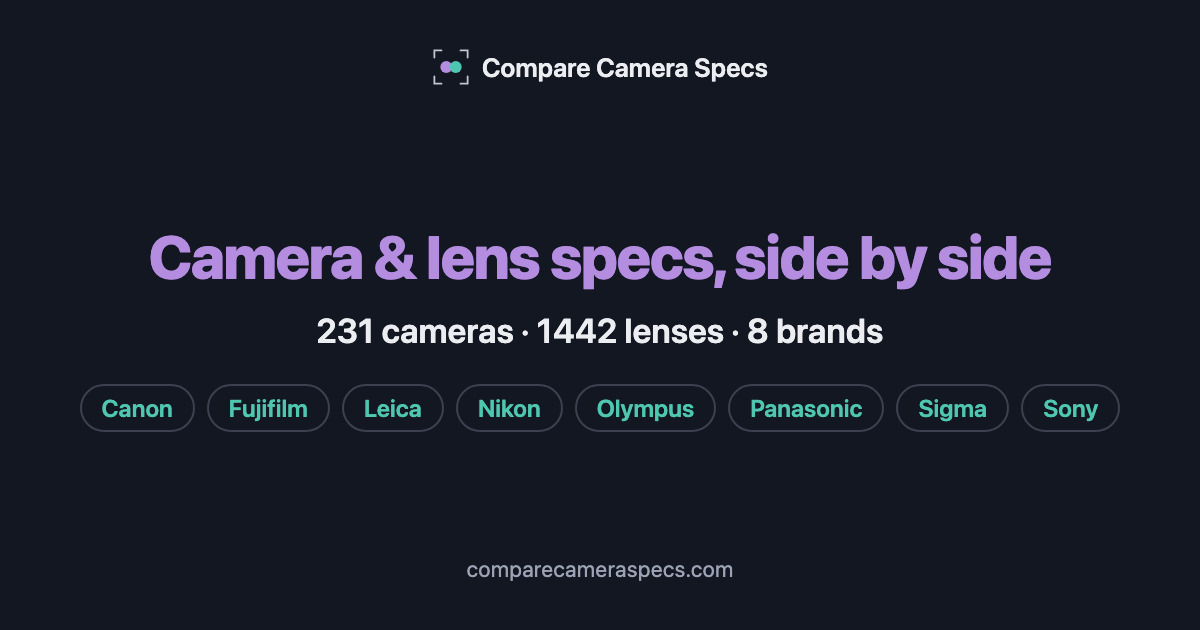
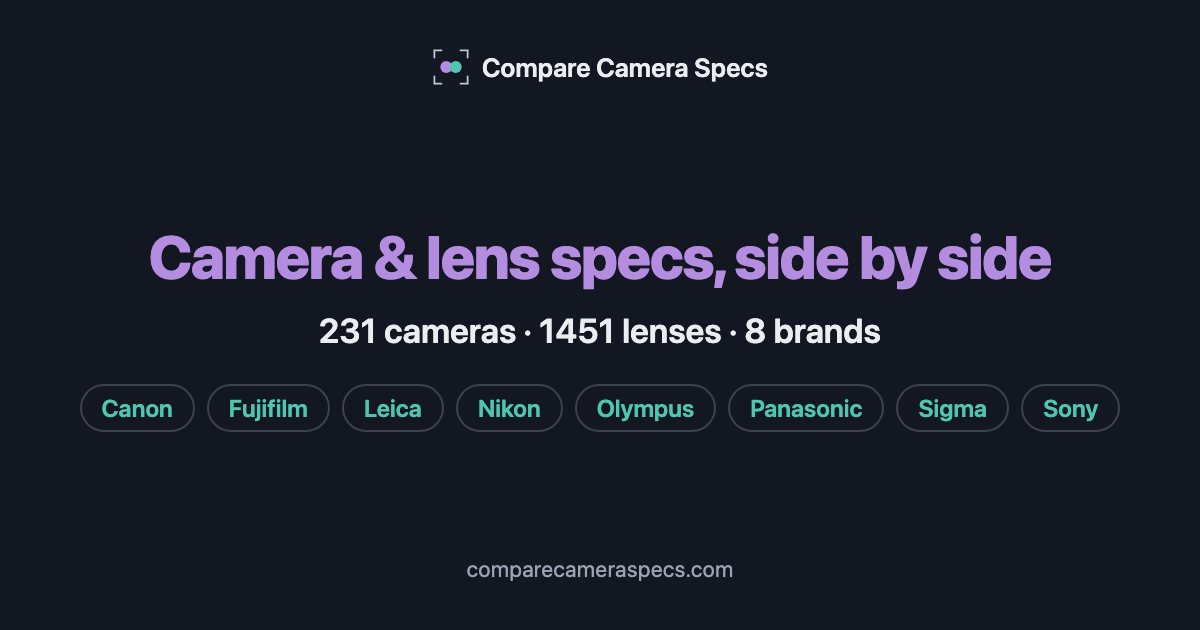
Leica: add 9 Zeiss ZM lenses
zeiss.com ZM technical data + datasheets; diameters from B&H (Distagon 15
from DxOMark); USD = B&H. New Zeiss (M-Mount) group.

Claude-Session: https://claude.ai/code/session_01FYKXhtYCHKNL3CJLW6oPDG

Changed region(s): [[0.2467, 0.4825, 0.74, 0.5429]]

diff --git a/leica/data.js b/leica/data.js
@@ -4434,6 +4434,160 @@ const LENSES = {
     priceIncomplete:true,
     productUrl:'https://www.cosina.co.jp/voigtlander/en/vm-mount/ultron-vintage-line-35mm-f2-aspherical/',
   },
+
+  /* ── Zeiss (M-Mount, ZM) — Panasonic/Leica missing-lens pass 2026-10-22 ── */
+  'zeiss-distagon-15mm-f28-zm': {
+    name:'Zeiss Distagon T* 2.8/15 ZM', manufacturer:'Zeiss', line:'ZM', type:'Prime',
+    mount:'m', focalLength:15, focalLengthMin:null, focalLengthMax:null, focalLengthEquiv:'15mm',
+    maxAperture:2.8, minAperture:22, weight:550, length:86, diameter:78,
+    filterThread:72, minFocusDist:30, maxMagnification:0.056,
+    elements:11, groups:9, blades:10, afType:'Manual',
+    weatherSealed:false, ois:false, oisStops:null, year:2005, discontinued:false,
+    imageUrl:'https://www.zeiss.com/content/dam/pno/images/photography/products/lenses-for-rangefinder-cameras/zm-lenses/models/zeiss-distagon-2815-zm.jpg',
+    imageSource: { url:'https://www.zeiss.com/photonics-and-optics/us/photography/products/lenses-for-rangefinder-cameras/zm-lenses.html', tier:'T1', title:'ZEISS ZM Lenses - zeiss.com', note:'the model image for this lens (file zeiss-distagon-2815-zm), lens alone', date:'2026-10-22' },
+    asin:null,
+    prices:{USD:4750,AUD:null,EUR:null,GBP:null,JPY:null,CAD:null,SGD:null},
+    specSources: [{ url:'https://www.zeiss.com/photonics-and-optics/us/photography/products/lenses-for-rangefinder-cameras/zm-lenses.html', tier:'T1', title:'ZEISS ZM Lenses - official technical data (zeiss.com US)', note:'Zeiss Distagon T* 2.8/15 ZM: f/2.8-f/22, 11/9, 0.30m, 1:18, M72 x 0.75, length 86mm without caps, 550g. Year: DxOMark lists the ZM version as released January 2005', date:'2026-10-22' }, { url:'https://www.zeiss.com/content/dam/pno/downloads/photo-lenses/datasheets/zm-lenses/datasheet-zeiss-zm-distagon-2815-en.pdf', tier:'T1', title:'Zeiss Distagon T* 2.8/15 ZM - Zeiss datasheet (PDF)', note:'datasheet: 11/9, 0.3m, 1:18, M72, 86mm, 500g (the web table\'s 550g is used; DxOMark also lists 550g)', date:'2026-10-22' }, { url:'https://www.bhphotovideo.com/c/product/361526-REG/x.html/specs', tier:'T3', title:'B&H - Zeiss Distagon T* 2.8/15 ZM specs', note:'f/2.8-22, 11/9, 10 blades, 30cm, 72mm filter, 500g; no dimensions row (Zeiss publishes no diameter or blade count for the ZM line)', date:'2026-10-22' }, { url:'https://www.dxomark.com/Lenses/Zeiss/Zeiss-Carl-Zeiss-Distagon-T-15mm-F28-ZM-Leica', tier:'T4', title:'DxOMark - Carl Zeiss Distagon T* 15mm F2.8 ZM Leica', note:'max diameter 78mm (the only source found for the diameter - neither Zeiss nor B&H publishes it), 550g, released January 2005', date:'2026-10-22' }],
+    priceSource: { url:'https://www.bhphotovideo.com/c/product/361526-REG/x.html', tier:'T3', title:'B&H Photo - Zeiss Distagon T* 2.8/15 ZM (black)', note:'B&H price $4,750, no strikethrough; Zeiss\'s US web shop no longer lists ZM lenses; non-USD not examined', date:'2026-10-22' },
+    priceIncomplete:true,
+    productUrl:'https://www.zeiss.com/photonics-and-optics/us/photography/products/lenses-for-rangefinder-cameras/zm-lenses.html',
+  },
+
+  'zeiss-biogon-21mm-f28-zm': {
+    name:'Zeiss Biogon T* 2.8/21 ZM', manufacturer:'Zeiss', line:'ZM', type:'Prime',
+    mount:'m', focalLength:21, focalLengthMin:null, focalLengthMax:null, focalLengthEquiv:'21mm',
+    maxAperture:2.8, minAperture:22, weight:280, length:64, diameter:53,
+    filterThread:46, minFocusDist:50, maxMagnification:0.048,
+    elements:9, groups:7, blades:10, afType:'Manual',
+    weatherSealed:false, ois:false, oisStops:null, year:2005, discontinued:false,
+    imageUrl:'https://www.zeiss.com/content/dam/pno/images/photography/products/lenses-for-rangefinder-cameras/zm-lenses/models/zeiss-biogon-2821-zm.jpg',
+    imageSource: { url:'https://www.zeiss.com/photonics-and-optics/us/photography/products/lenses-for-rangefinder-cameras/zm-lenses.html', tier:'T1', title:'ZEISS ZM Lenses - zeiss.com', note:'the model image for this lens (file zeiss-biogon-2821-zm), lens alone', date:'2026-10-22' },
+    asin:null,
+    prices:{USD:1599,AUD:null,EUR:null,GBP:null,JPY:null,CAD:null,SGD:null},
+    specSources: [{ url:'https://www.zeiss.com/photonics-and-optics/us/photography/products/lenses-for-rangefinder-cameras/zm-lenses.html', tier:'T1', title:'ZEISS ZM Lenses - official technical data (zeiss.com US)', note:'Zeiss Biogon T* 2.8/21 ZM: f/2.8-f/22, 9/7, 0.50m, 1:21, M46 x 0.75, 64mm without caps, 280g. Year: estimated: the ZM line launched 2004-05 with the Zeiss Ikon rangefinder', date:'2026-10-22' }, { url:'https://www.zeiss.com/content/dam/pno/downloads/photo-lenses/datasheets/zm-lenses/datasheet-zeiss-zm-biogon-2821-en.pdf', tier:'T1', title:'Zeiss Biogon T* 2.8/21 ZM - Zeiss datasheet (PDF)', note:'datasheet: 9/7, 0.5m, 1:21, M46, 64mm, 300g (B&H also 300g; the current web table\'s 280g is used)', date:'2026-10-22' }, { url:'https://www.bhphotovideo.com/c/product/361537-REG/x.html/specs', tier:'T3', title:'B&H - Zeiss Biogon T* 2.8/21 ZM specs', note:'f/2.8-22, 9/7, 10 blades, 50cm, 46mm filter, 53 x 64mm, 300g; diameter from here (Zeiss publishes no diameter or blade count for the ZM line)', date:'2026-10-22' }],
+    priceSource: { url:'https://www.bhphotovideo.com/c/product/361537-REG/x.html', tier:'T3', title:'B&H Photo - Zeiss Biogon T* 2.8/21 ZM (black)', note:'B&H price $1,599, no strikethrough; Zeiss\'s US web shop no longer lists ZM lenses; non-USD not examined', date:'2026-10-22' },
+    priceIncomplete:true,
+    productUrl:'https://www.zeiss.com/photonics-and-optics/us/photography/products/lenses-for-rangefinder-cameras/zm-lenses.html',
+  },
+
+  'zeiss-biogon-25mm-f28-zm': {
+    name:'Zeiss Biogon T* 2.8/25 ZM', manufacturer:'Zeiss', line:'ZM', type:'Prime',
+    mount:'m', focalLength:25, focalLengthMin:null, focalLengthMax:null, focalLengthEquiv:'25mm',
+    maxAperture:2.8, minAperture:22, weight:260, length:60, diameter:51.3,
+    filterThread:46, minFocusDist:50, maxMagnification:0.056,
+    elements:9, groups:7, blades:10, afType:'Manual',
+    weatherSealed:false, ois:false, oisStops:null, year:2004, discontinued:false,
+    imageUrl:'https://www.zeiss.com/content/dam/pno/images/photography/products/lenses-for-rangefinder-cameras/zm-lenses/models/zeiss-biogon-2825-zm.jpg',
+    imageSource: { url:'https://www.zeiss.com/photonics-and-optics/us/photography/products/lenses-for-rangefinder-cameras/zm-lenses.html', tier:'T1', title:'ZEISS ZM Lenses - zeiss.com', note:'the model image for this lens (file zeiss-biogon-2825-zm), lens alone', date:'2026-10-22' },
+    asin:null,
+    prices:{USD:1361,AUD:null,EUR:null,GBP:null,JPY:null,CAD:null,SGD:null},
+    specSources: [{ url:'https://www.zeiss.com/photonics-and-optics/us/photography/products/lenses-for-rangefinder-cameras/zm-lenses.html', tier:'T1', title:'ZEISS ZM Lenses - official technical data (zeiss.com US)', note:'Zeiss Biogon T* 2.8/25 ZM: f/2.8-f/22, 9/7, 0.50m, M46 x 0.75, 60mm without caps, 260g (its image-ratio/coverage rows copy the 21mm\'s). Year: estimated: introduced 2004 as part of the original ZM line-up (dealer listings)', date:'2026-10-22' }, { url:'https://www.zeiss.com/content/dam/pno/downloads/photo-lenses/datasheets/zm-lenses/datasheet-zeiss-zm-biogon-2825-en.pdf', tier:'T1', title:'Zeiss Biogon T* 2.8/25 ZM - Zeiss datasheet (PDF)', note:'datasheet: 9/7, 0.5m, 1:18, M46, 60mm, 260g', date:'2026-10-22' }, { url:'https://www.bhphotovideo.com/c/product/361544-REG/x.html/specs', tier:'T3', title:'B&H - Zeiss Biogon T* 2.8/25 ZM specs', note:'f/2.8-22, 9/7, 10 blades, 50cm, 46mm filter, 51.3 x 60mm, 260g; diameter from here (Zeiss publishes no diameter or blade count for the ZM line)', date:'2026-10-22' }],
+    priceSource: { url:'https://www.bhphotovideo.com/c/product/361544-REG/x.html', tier:'T3', title:'B&H Photo - Zeiss Biogon T* 2.8/25 ZM (black)', note:'B&H price $1,361, no strikethrough; Zeiss\'s US web shop no longer lists ZM lenses; non-USD not examined', date:'2026-10-22' },
+    priceIncomplete:true,
+    productUrl:'https://www.zeiss.com/photonics-and-optics/us/photography/products/lenses-for-rangefinder-cameras/zm-lenses.html',
+  },
+
+  'zeiss-biogon-28mm-f28-zm': {
+    name:'Zeiss Biogon T* 2.8/28 ZM', manufacturer:'Zeiss', line:'ZM', type:'Prime',
+    mount:'m', focalLength:28, focalLengthMin:null, focalLengthMax:null, focalLengthEquiv:'28mm',
+    maxAperture:2.8, minAperture:22, weight:230, length:51, diameter:51.3,
+    filterThread:46, minFocusDist:50, maxMagnification:0.063,
+    elements:8, groups:6, blades:10, afType:'Manual',
+    weatherSealed:false, ois:false, oisStops:null, year:2004, discontinued:false,
+    imageUrl:'https://www.zeiss.com/content/dam/pno/images/photography/products/lenses-for-rangefinder-cameras/zm-lenses/models/zeiss-biogon-2828-zm.jpg',
+    imageSource: { url:'https://www.zeiss.com/photonics-and-optics/us/photography/products/lenses-for-rangefinder-cameras/zm-lenses.html', tier:'T1', title:'ZEISS ZM Lenses - zeiss.com', note:'the model image for this lens (file zeiss-biogon-2828-zm), lens alone', date:'2026-10-22' },
+    asin:null,
+    prices:{USD:1361,AUD:null,EUR:null,GBP:null,JPY:null,CAD:null,SGD:null},
+    specSources: [{ url:'https://www.zeiss.com/photonics-and-optics/us/photography/products/lenses-for-rangefinder-cameras/zm-lenses.html', tier:'T1', title:'ZEISS ZM Lenses - official technical data (zeiss.com US)', note:'Zeiss Biogon T* 2.8/28 ZM: f/2.8-f/22, 8/6, 0.50m, 1:16, M46 x 0.75, 51mm without caps, 230g. Year: estimated: part of the 2004 ZM launch line-up', date:'2026-10-22' }, { url:'https://www.zeiss.com/content/dam/pno/downloads/photo-lenses/datasheets/zm-lenses/datasheet-zeiss-zm-biogon-2828-en.pdf', tier:'T1', title:'Zeiss Biogon T* 2.8/28 ZM - Zeiss datasheet (PDF)', note:'datasheet: 8/6, 0.5m, 1:16, M46, 51mm, 220g (B&H also 220g; the current web table\'s 230g is used)', date:'2026-10-22' }, { url:'https://www.bhphotovideo.com/c/product/361545-REG/x.html/specs', tier:'T3', title:'B&H - Zeiss Biogon T* 2.8/28 ZM specs', note:'f/2.8-22, 8/6, 10 blades, 50cm, 46mm filter, 51.3 x 51mm, 220g; diameter from here (Zeiss publishes no diameter or blade count for the ZM line)', date:'2026-10-22' }],
+    priceSource: { url:'https://www.bhphotovideo.com/c/product/361545-REG/x.html', tier:'T3', title:'B&H Photo - Zeiss Biogon T* 2.8/28 ZM (black)', note:'B&H price $1,361, no strikethrough; Zeiss\'s US web shop no longer lists ZM lenses; non-USD not examined', date:'2026-10-22' },
+    priceIncomplete:true,
+    productUrl:'https://www.zeiss.com/photonics-and-optics/us/photography/products/lenses-for-rangefinder-cameras/zm-lenses.html',
+  },
+
+  'zeiss-distagon-35mm-f14-zm': {
+    name:'Zeiss Distagon T* 1.4/35 ZM', manufacturer:'Zeiss', line:'ZM', type:'Prime',
+    mount:'m', focalLength:35, focalLengthMin:null, focalLengthMax:null, focalLengthEquiv:'35mm',
+    maxAperture:1.4, minAperture:16, weight:381, length:65, diameter:63.2,
+    filterThread:49, minFocusDist:70, maxMagnification:0.059,
+    elements:10, groups:7, blades:10, afType:'Manual',
+    weatherSealed:false, ois:false, oisStops:null, year:2014, discontinued:false,
+    imageUrl:'https://www.zeiss.com/content/dam/pno/images/photography/products/lenses-for-rangefinder-cameras/zm-lenses/models/zeiss-distagon-1435-zm.jpg',
+    imageSource: { url:'https://www.zeiss.com/photonics-and-optics/us/photography/products/lenses-for-rangefinder-cameras/zm-lenses.html', tier:'T1', title:'ZEISS ZM Lenses - zeiss.com', note:'the model image for this lens (file zeiss-distagon-1435-zm), lens alone', date:'2026-10-22' },
+    asin:null,
+    prices:{USD:2390,AUD:null,EUR:null,GBP:null,JPY:null,CAD:null,SGD:null},
+    specSources: [{ url:'https://www.zeiss.com/photonics-and-optics/us/photography/products/lenses-for-rangefinder-cameras/zm-lenses.html', tier:'T1', title:'ZEISS ZM Lenses - official technical data (zeiss.com US)', note:'Zeiss Distagon T* 1.4/35 ZM: f/1.4-f/16, 10/7, 0.70m, 1:16.9, M49 x 0.75, 65mm without caps, 381g. Year: announced at Photokina 2014', date:'2026-10-22' }, { url:'https://www.zeiss.com/content/dam/pno/downloads/photo-lenses/datasheets/zm-lenses/datasheet-zeiss-zm-distagon-1435-en.pdf', tier:'T1', title:'Zeiss Distagon T* 1.4/35 ZM - Zeiss datasheet (PDF)', note:'datasheet: max diameter 63.2mm, 65.2mm without caps (87.3 with), 381g', date:'2026-10-22' }, { url:'https://www.bhphotovideo.com/c/product/1081652-REG/x.html/specs', tier:'T3', title:'B&H - Zeiss Distagon T* 1.4/35 ZM specs', note:'f/1.4-16, 10/7, 10 blades, 70cm, 49mm filter, 63.2 x 65.2mm, 381g (Zeiss publishes no diameter or blade count for the ZM line)', date:'2026-10-22' }],
+    priceSource: { url:'https://www.bhphotovideo.com/c/product/1081652-REG/x.html', tier:'T3', title:'B&H Photo - Zeiss Distagon T* 1.4/35 ZM (black)', note:'B&H price $2,390, no strikethrough; Zeiss\'s US web shop no longer lists ZM lenses; non-USD not examined', date:'2026-10-22' },
+    priceIncomplete:true,
+    productUrl:'https://www.zeiss.com/photonics-and-optics/us/photography/products/lenses-for-rangefinder-cameras/zm-lenses.html',
+  },
+
+  'zeiss-biogon-35mm-f2-zm': {
+    name:'Zeiss Biogon T* 2/35 ZM', manufacturer:'Zeiss', line:'ZM', type:'Prime',
+    mount:'m', focalLength:35, focalLengthMin:null, focalLengthMax:null, focalLengthEquiv:'35mm',
+    maxAperture:2, minAperture:22, weight:240, length:56, diameter:51.8,
+    filterThread:43, minFocusDist:70, maxMagnification:0.056,
+    elements:9, groups:6, blades:10, afType:'Manual',
+    weatherSealed:false, ois:false, oisStops:null, year:2004, discontinued:false,
+    imageUrl:'https://www.zeiss.com/content/dam/pno/images/photography/products/lenses-for-rangefinder-cameras/zm-lenses/models/zeiss-biogon-235-zm.jpg',
+    imageSource: { url:'https://www.zeiss.com/photonics-and-optics/us/photography/products/lenses-for-rangefinder-cameras/zm-lenses.html', tier:'T1', title:'ZEISS ZM Lenses - zeiss.com', note:'the model image for this lens (file zeiss-biogon-235-zm), lens alone', date:'2026-10-22' },
+    asin:null,
+    prices:{USD:1241,AUD:null,EUR:null,GBP:null,JPY:null,CAD:null,SGD:null},
+    specSources: [{ url:'https://www.zeiss.com/photonics-and-optics/us/photography/products/lenses-for-rangefinder-cameras/zm-lenses.html', tier:'T1', title:'ZEISS ZM Lenses - official technical data (zeiss.com US)', note:'Zeiss Biogon T* 2/35 ZM: f/2-f/22, 9/6, 0.70m, 1:18, M43 x 0.75, 56mm without caps, 240g. Year: estimated: part of the 2004 ZM launch line-up', date:'2026-10-22' }, { url:'https://www.zeiss.com/content/dam/pno/downloads/photo-lenses/datasheets/zm-lenses/datasheet-zeiss-zm-biogon-235-en.pdf', tier:'T1', title:'Zeiss Biogon T* 2/35 ZM - Zeiss datasheet (PDF)', note:'datasheet: 9/6, 0.7m, 1:18, M43, 56mm, 240g', date:'2026-10-22' }, { url:'https://www.bhphotovideo.com/c/product/361549-REG/x.html/specs', tier:'T3', title:'B&H - Zeiss Biogon T* 2/35 ZM specs', note:'f/2-22, 9/6, 10 blades, 70cm, 43mm filter, 51.8 x 56mm, 240g; diameter from here (Zeiss publishes no diameter or blade count for the ZM line)', date:'2026-10-22' }],
+    priceSource: { url:'https://www.bhphotovideo.com/c/product/361549-REG/x.html', tier:'T3', title:'B&H Photo - Zeiss Biogon T* 2/35 ZM (black)', note:'B&H price $1,241, no strikethrough; Zeiss\'s US web shop no longer lists ZM lenses; non-USD not examined', date:'2026-10-22' },
+    priceIncomplete:true,
+    productUrl:'https://www.zeiss.com/photonics-and-optics/us/photography/products/lenses-for-rangefinder-cameras/zm-lenses.html',
+  },
+
+  'zeiss-c-biogon-35mm-f28-zm': {
+    name:'Zeiss C Biogon T* 2.8/35 ZM', manufacturer:'Zeiss', line:'ZM', type:'Prime',
+    mount:'m', focalLength:35, focalLengthMin:null, focalLengthMax:null, focalLengthEquiv:'35mm',
+    maxAperture:2.8, minAperture:22, weight:200, length:55, diameter:52,
+    filterThread:43, minFocusDist:70, maxMagnification:0.059,
+    elements:7, groups:5, blades:10, afType:'Manual',
+    weatherSealed:false, ois:false, oisStops:null, year:2008, discontinued:false,
+    imageUrl:'https://www.zeiss.com/content/dam/pno/images/photography/products/lenses-for-rangefinder-cameras/zm-lenses/models/zeiss-biogon-2835-zm.jpg',
+    imageSource: { url:'https://www.zeiss.com/photonics-and-optics/us/photography/products/lenses-for-rangefinder-cameras/zm-lenses.html', tier:'T1', title:'ZEISS ZM Lenses - zeiss.com', note:'the model image for this lens (file zeiss-biogon-2835-zm), lens alone', date:'2026-10-22' },
+    asin:null,
+    prices:{USD:999,AUD:null,EUR:null,GBP:null,JPY:null,CAD:null,SGD:null},
+    specSources: [{ url:'https://www.zeiss.com/photonics-and-optics/us/photography/products/lenses-for-rangefinder-cameras/zm-lenses.html', tier:'T1', title:'ZEISS ZM Lenses - official technical data (zeiss.com US)', note:'Zeiss C Biogon T* 2.8/35 ZM: f/2.8-f/22, 7/5, 0.70m, 1:17, M43 x 0.75, 55mm "without lens caps", 200g. Year: estimated (C Biogon 35 followed the 2006 C Sonnar; B&H listing c. 2008)', date:'2026-10-22' }, { url:'https://www.zeiss.com/content/dam/pno/downloads/photo-lenses/datasheets/zm-lenses/datasheet-zeiss-zm-biogon-2835-en.pdf', tier:'T1', title:'Zeiss C Biogon T* 2.8/35 ZM - Zeiss datasheet (PDF)', note:'datasheet: max diameter 52mm, 55mm labelled "with caps" (the web table labels the same 55mm "without caps"), 200g', date:'2026-10-22' }, { url:'https://www.bhphotovideo.com/c/product/553340-REG/x.html/specs', tier:'T3', title:'B&H - Zeiss C Biogon T* 2.8/35 ZM specs', note:'f/2.8-22, 7/5, 10 blades, 70cm, 43mm filter, 52 x 55mm, 200g (Zeiss publishes no diameter or blade count for the ZM line)', date:'2026-10-22' }],
+    priceSource: { url:'https://www.bhphotovideo.com/c/product/553340-REG/x.html', tier:'T3', title:'B&H Photo - Zeiss C Biogon T* 2.8/35 ZM (black)', note:'B&H price $999, no strikethrough; Zeiss\'s US web shop no longer lists ZM lenses; non-USD not examined', date:'2026-10-22' },
+    priceIncomplete:true,
+    productUrl:'https://www.zeiss.com/photonics-and-optics/us/photography/products/lenses-for-rangefinder-cameras/zm-lenses.html',
+  },
+
+  'zeiss-c-sonnar-50mm-f15-zm': {
+    name:'Zeiss C Sonnar T* 1.5/50 ZM', manufacturer:'Zeiss', line:'ZM', type:'Prime',
+    mount:'m', focalLength:50, focalLengthMin:null, focalLengthMax:null, focalLengthEquiv:'50mm',
+    maxAperture:1.5, minAperture:16, weight:250, length:45, diameter:56,
+    filterThread:46, minFocusDist:90, maxMagnification:0.067,
+    elements:6, groups:4, blades:10, afType:'Manual',
+    weatherSealed:false, ois:false, oisStops:null, year:2006, discontinued:false,
+    imageUrl:'https://www.zeiss.com/content/dam/pno/images/photography/products/lenses-for-rangefinder-cameras/zm-lenses/models/zeiss-c-sonnar-1550-zm.jpg',
+    imageSource: { url:'https://www.zeiss.com/photonics-and-optics/us/photography/products/lenses-for-rangefinder-cameras/zm-lenses.html', tier:'T1', title:'ZEISS ZM Lenses - zeiss.com', note:'the model image for this lens (file zeiss-c-sonnar-1550-zm), lens alone', date:'2026-10-22' },
+    asin:null,
+    prices:{USD:1361,AUD:null,EUR:null,GBP:null,JPY:null,CAD:null,SGD:null},
+    specSources: [{ url:'https://www.zeiss.com/photonics-and-optics/us/photography/products/lenses-for-rangefinder-cameras/zm-lenses.html', tier:'T1', title:'ZEISS ZM Lenses - official technical data (zeiss.com US)', note:'Zeiss C Sonnar T* 1.5/50 ZM: f/1.5-f/16, 6/4, 0.90m, 1:15, M46 x 0.75, 45mm without caps, 250g. Year: estimated: the first of the "C" ZM lenses, c. 2006', date:'2026-10-22' }, { url:'https://www.zeiss.com/content/dam/pno/downloads/photo-lenses/datasheets/zm-lenses/datasheet-zeiss-zm-c-sonnar-1550-en.pdf', tier:'T1', title:'Zeiss C Sonnar T* 1.5/50 ZM - Zeiss datasheet (PDF)', note:'datasheet: 0.9m, 1:15, M46, 250g (no length)', date:'2026-10-22' }, { url:'https://www.bhphotovideo.com/c/product/446175-REG/x.html/specs', tier:'T3', title:'B&H - Zeiss C Sonnar T* 1.5/50 ZM specs', note:'f/1.5-16, 6/4, 10 blades, 90cm, 46mm filter, 56 x 45mm, 250g; diameter from here (Zeiss publishes no diameter or blade count for the ZM line)', date:'2026-10-22' }],
+    priceSource: { url:'https://www.bhphotovideo.com/c/product/446175-REG/x.html', tier:'T3', title:'B&H Photo - Zeiss C Sonnar T* 1.5/50 ZM (black)', note:'B&H price $1,361, no strikethrough; Zeiss\'s US web shop no longer lists ZM lenses; non-USD not examined', date:'2026-10-22' },
+    priceIncomplete:true,
+    productUrl:'https://www.zeiss.com/photonics-and-optics/us/photography/products/lenses-for-rangefinder-cameras/zm-lenses.html',
+  },
+
+  'zeiss-planar-50mm-f2-zm': {
+    name:'Zeiss Planar T* 2/50 ZM', manufacturer:'Zeiss', line:'ZM', type:'Prime',
+    mount:'m', focalLength:50, focalLengthMin:null, focalLengthMax:null, focalLengthEquiv:'50mm',
+    maxAperture:2, minAperture:22, weight:230, length:68, diameter:52,
+    filterThread:43, minFocusDist:70, maxMagnification:0.083,
+    elements:6, groups:4, blades:10, afType:'Manual',
+    weatherSealed:false, ois:false, oisStops:null, year:2004, discontinued:false,
+    imageUrl:'https://www.zeiss.com/content/dam/pno/images/photography/products/lenses-for-rangefinder-cameras/zm-lenses/models/zeiss-planar-250-zm.jpg',
+    imageSource: { url:'https://www.zeiss.com/photonics-and-optics/us/photography/products/lenses-for-rangefinder-cameras/zm-lenses.html', tier:'T1', title:'ZEISS ZM Lenses - zeiss.com', note:'the model image for this lens (file zeiss-planar-250-zm), lens alone', date:'2026-10-22' },
+    asin:null,
+    prices:{USD:959,AUD:null,EUR:null,GBP:null,JPY:null,CAD:null,SGD:null},
+    specSources: [{ url:'https://www.zeiss.com/photonics-and-optics/us/photography/products/lenses-for-rangefinder-cameras/zm-lenses.html', tier:'T1', title:'ZEISS ZM Lenses - official technical data (zeiss.com US)', note:'Zeiss Planar T* 2/50 ZM: f/2-f/22, 6/4, 0.70m, 1:12, M43 x 0.75, 68mm without caps, 230g. Year: estimated: part of the 2004 ZM launch line-up', date:'2026-10-22' }, { url:'https://www.zeiss.com/content/dam/pno/downloads/photo-lenses/datasheets/zm-lenses/datasheet-zeiss-zm-planar-250-en.pdf', tier:'T1', title:'Zeiss Planar T* 2/50 ZM - Zeiss datasheet (PDF)', note:'datasheet: 0.7m, 1:12, M43, 230g', date:'2026-10-22' }, { url:'https://www.bhphotovideo.com/c/product/361551-REG/x.html/specs', tier:'T3', title:'B&H - Zeiss Planar T* 2/50 ZM specs', note:'f/2-22, 6/4, 10 blades, 70cm, 43mm filter, 52 x 68mm, 230g; diameter from here (Zeiss publishes no diameter or blade count for the ZM line)', date:'2026-10-22' }],
+    priceSource: { url:'https://www.bhphotovideo.com/c/product/361551-REG/x.html', tier:'T3', title:'B&H Photo - Zeiss Planar T* 2/50 ZM (black)', note:'B&H price $959, no strikethrough; Zeiss\'s US web shop no longer lists ZM lenses; non-USD not examined', date:'2026-10-22' },
+    priceIncomplete:true,
+    productUrl:'https://www.zeiss.com/photonics-and-optics/us/photography/products/lenses-for-rangefinder-cameras/zm-lenses.html',
+  },
 };
 
 const LENS_DROPDOWN_GROUPS = [
@@ -4475,6 +4629,7 @@ const LENS_DROPDOWN_GROUPS = [
   { label: '── Meike (L-Mount) ──', ids: ['meike-85mm-f14-ii-l', 'meike-85mm-f18-se-ii-l'] },
   { label: '── SG-image (L-Mount) ──', ids: ['sgimage-24mm-f63-l', 'sgimage-50mm-f18-l'] },
   { label: '── Voigtländer (M-Mount) ──', ids: ['voigtlander-heliar-hyper-wide-10mm-f56-vm', 'voigtlander-super-wide-heliar-15mm-f45-iii-vm', 'voigtlander-color-skopar-21mm-f35-vm', 'voigtlander-nokton-21mm-f14-vm', 'voigtlander-apo-lanthar-28mm-f2-vm', 'voigtlander-color-skopar-28mm-f28-type-ii-vm', 'voigtlander-nokton-28mm-f15-vm', 'voigtlander-ultron-28mm-f2-vm', 'voigtlander-apo-lanthar-35mm-f2-vm', 'voigtlander-color-skopar-35mm-f25-p-ii-vm', 'voigtlander-color-skopar-35mm-f35-vm', 'voigtlander-nokton-35mm-f12-iv-vm', 'voigtlander-nokton-classic-35mm-f14-ii-vm', 'voigtlander-nokton-35mm-f15-vm', 'voigtlander-ultron-35mm-f2-vm', 'voigtlander-nokton-40mm-f12-ii-vm', 'voigtlander-nokton-classic-40mm-f14-vm', 'voigtlander-apo-lanthar-50mm-f2-vm', 'voigtlander-apo-lanthar-50mm-f35-type-i-vm', 'voigtlander-apo-lanthar-50mm-f35-type-ii-vm', 'voigtlander-color-skopar-50mm-f22-vm', 'voigtlander-heliar-classic-50mm-f15-vm', 'voigtlander-nokton-50mm-f12-ii-vm', 'voigtlander-nokton-50mm-f1-vm', 'voigtlander-nokton-50mm-f15-ii-vm', 'voigtlander-apo-skopar-75mm-f28-vm', 'voigtlander-nokton-75mm-f15-vm', 'voigtlander-apo-lanthar-90mm-f4-vm', 'voigtlander-apo-ultron-90mm-f2-vm'] },
+  { label: '── Zeiss (M-Mount) ──', ids: ['zeiss-distagon-15mm-f28-zm', 'zeiss-biogon-21mm-f28-zm', 'zeiss-biogon-25mm-f28-zm', 'zeiss-biogon-28mm-f28-zm', 'zeiss-distagon-35mm-f14-zm', 'zeiss-biogon-35mm-f2-zm', 'zeiss-c-biogon-35mm-f28-zm', 'zeiss-c-sonnar-50mm-f15-zm', 'zeiss-planar-50mm-f2-zm'] },
 ];
 
 return { BRAND_CONFIG, SERIES_COLORS, CAMERAS, CAMERA_ORDER, DROPDOWN_GROUPS, LENSES, LENS_DROPDOWN_GROUPS, REGISTERED_BRANDS };

diff --git a/leica/index.html b/leica/index.html
@@ -5,17 +5,17 @@
   <meta name="viewport" content="width=device-width, initial-scale=1.0">
   <title>Leica Camera &amp; Lens Comparison</title>
   <!-- seo:begin (generated by scripts/generate-seo.js — do not edit by hand) -->
-  <meta name="description" content="Compare 49 Leica cameras and 189 lenses side by side — price, sensor, autofocus, stabilization and video, in 7 currencies.">
+  <meta name="description" content="Compare 49 Leica cameras and 198 lenses side by side — price, sensor, autofocus, stabilization and video, in 7 currencies.">
   <link rel="canonical" href="https://comparecameraspecs.com/leica/">
   <meta property="og:type" content="website">
   <meta property="og:site_name" content="Compare Camera Specs">
   <meta property="og:title" content="Leica Camera &amp; Lens Comparison">
-  <meta property="og:description" content="Compare 49 Leica cameras and 189 lenses side by side — price, sensor, autofocus, stabilization and video, in 7 currencies.">
+  <meta property="og:description" content="Compare 49 Leica cameras and 198 lenses side by side — price, sensor, autofocus, stabilization and video, in 7 currencies.">
   <meta property="og:url" content="https://comparecameraspecs.com/leica/">
   <meta property="og:image" content="https://comparecameraspecs.com/og/leica.png">
   <meta property="og:image:width" content="1200">
   <meta property="og:image:height" content="630">
-  <meta property="og:image:alt" content="Leica: compare 49 cameras and 189 lenses side by side">
+  <meta property="og:image:alt" content="Leica: compare 49 cameras and 198 lenses side by side">
   <meta name="twitter:card" content="summary_large_image">
   <meta name="twitter:image" content="https://comparecameraspecs.com/og/leica.png">
   <script>
@@ -63,7 +63,7 @@
   <!-- seo:body:begin (generated by scripts/generate-seo.js — do not edit by hand) -->
   <section class="seo-links" aria-label="Popular Leica comparisons">
     <h2>Popular Leica camera comparisons</h2>
-    <p>Compare all 49 Leica cameras and 189 lenses side by side — price, sensor, autofocus, stabilization and video, in seven currencies. Popular head-to-head comparisons:</p>
+    <p>Compare all 49 Leica cameras and 198 lenses side by side — price, sensor, autofocus, stabilization and video, in seven currencies. Popular head-to-head comparisons:</p>
     <ul>
       <li><a href="vs/sl3-vs-sl2">Leica SL3 vs SL2</a></li>
       <li><a href="vs/q3-vs-q2">Leica Q3 vs Q2</a></li>

diff --git a/tests/data/links-offline.test.js b/tests/data/links-offline.test.js
@@ -77,6 +77,7 @@ const KNOWN_SHARED_LINKS = new Map([
   ['sony productUrl https://www.zeiss.com/photonics-and-optics/us/photography/products/lenses-for-mirrorless-system-cameras/touit-lenses.html', 3],
   ['sony productUrl https://www.zeiss.com/photonics-and-optics/us/photography/products/lenses-for-mirrorless-system-cameras/otus-ml-lenses.html', 3],
   ['nikon productUrl https://www.zeiss.com/photonics-and-optics/us/photography/products/lenses-for-mirrorless-system-cameras/otus-ml-lenses.html', 3],
+  ['leica productUrl https://www.zeiss.com/photonics-and-optics/us/photography/products/lenses-for-rangefinder-cameras/zm-lenses.html', 9],
   // 7Artisans sells the 25/35/50mm f/1.8 Lite trio as ONE listing with mount and
   // focal-length variants; the photo is the maker's official family shot showing
   // all three barrels. Verified visually 2026-09-07.
@@ -203,8 +204,9 @@ const KNOWN_SHARED_LINKS = new Map([
 // panasonic and olympus), +10 Voigtländer MFT (5 each),
 // +14 SG-image MFT, +26 Samyang MFT (7 / 13 each), +24 TTArtisan/7Artisans
 // MFT (12 each), +49 Leica L-Mount copies of Panasonic's LUMIX S /
-// third-party entries that have no asin, +29 Voigtländer VM (Leica).
-const ASIN_GAP_BASELINE = 547;
+// third-party entries that have no asin, +29 Voigtländer VM, +9 Zeiss ZM
+// (Leica).
+const ASIN_GAP_BASELINE = 556;
 
 const allItems = () => brandDirs().flatMap(brand => {
   const { data } = loadBrand(brand);

diff --git a/index.html b/index.html
@@ -88,7 +88,7 @@
   <meta property="og:image" content="https://comparecameraspecs.com/og/home.png">
   <meta property="og:image:width" content="1200">
   <meta property="og:image:height" content="630">
-  <meta property="og:image:alt" content="Compare 231 cameras and 1442 lenses from 8 brands side by side">
+  <meta property="og:image:alt" content="Compare 231 cameras and 1451 lenses from 8 brands side by side">
   <meta name="twitter:card" content="summary_large_image">
   <meta name="twitter:image" content="https://comparecameraspecs.com/og/home.png">
   <script>
@@ -247,7 +247,7 @@
             <div class="brand-card-body">
               <div class="brand-name">Leica</div>
               <div class="brand-mount">L-Mount</div>
-              <div class="brand-count">49 cameras · 189 lenses</div>
+              <div class="brand-count">49 cameras · 198 lenses</div>
               <div class="brand-go">Compare &rarr;</div>
             </div>
           </a>

diff --git a/about.html b/about.html
@@ -15,7 +15,7 @@
   <meta property="og:image" content="https://comparecameraspecs.com/og/home.png">
   <meta property="og:image:width" content="1200">
   <meta property="og:image:height" content="630">
-  <meta property="og:image:alt" content="Compare 231 cameras and 1442 lenses from 8 brands side by side">
+  <meta property="og:image:alt" content="Compare 231 cameras and 1451 lenses from 8 brands side by side">
   <meta name="twitter:card" content="summary_large_image">
   <meta name="twitter:image" content="https://comparecameraspecs.com/og/home.png">
   <script>

diff --git a/privacy.html b/privacy.html
@@ -15,7 +15,7 @@
   <meta property="og:image" content="https://comparecameraspecs.com/og/home.png">
   <meta property="og:image:width" content="1200">
   <meta property="og:image:height" content="630">
-  <meta property="og:image:alt" content="Compare 231 cameras and 1442 lenses from 8 brands side by side">
+  <meta property="og:image:alt" content="Compare 231 cameras and 1451 lenses from 8 brands side by side">
   <meta name="twitter:card" content="summary_large_image">
   <meta name="twitter:image" content="https://comparecameraspecs.com/og/home.png">
   <script>

diff --git a/openspec/changes/add-panasonic-leica-missing-thirdparty-lenses/PROGRESS.md b/openspec/changes/add-panasonic-leica-missing-thirdparty-lenses/PROGRESS.md
@@ -1,6 +1,7 @@
 # Progress — Panasonic + Leica missing third-party lenses
 
-**Resume at:** 5.3 (Leica M: Zeiss ZM)
+**Resume at:** 5.4 (Leica M: TTArtisan / 7Artisans / Thypoch / Laowa)
+**5.3 done 2026-10-22 (9 Zeiss ZM lenses into leica/):** the full current ZM line on zeiss.com (Distagon 15/2.8, Biogon 21/2.8, 25/2.8, 28/2.8, 2/35, C Biogon 2.8/35, Distagon 1.4/35, C Sonnar 1.5/50, Planar 2/50). Specs from zeiss.com's ZM technical-data table (lengths without caps) + the per-lens Zeiss datasheet PDFs; diameter and blade count (not published by Zeiss) from B&H; Distagon 15 diameter (78mm) from DxOMark only. Where the current web table and the older datasheets disagree on weight (15mm 550 vs 500g, 21mm 280 vs 300g, 28mm 230 vs 220g; B&H follows the datasheets) the web table is used and the datasheet figure noted. Years: Distagon 35 2014 (Photokina) and Distagon 15 2005 (DxOMark) sourced; the others estimated from the 2004-05 ZM launch, noted as estimates. USD = B&H (Zeiss's US web shop no longer lists ZM). Per-lens model images from zeiss.com.
 **5.2 done 2026-10-22 (29 Voigtländer VM lenses into leica/):** every current design on Cosina's EN VM list - specs from the EN pages, release dates (発売日) from the JP pages, USD = B&H regular (no strikethrough), product shot = each page's "-01" image (the first, P00, is a sample photo). One entry per optical design: Vintage Line Type I/II (same optics, aluminium vs brass barrel) use the variant B&H sells / Cosina still makes, noted in specSources; APO-Lanthar 50 f/3.5 Type I and Type II are separate entries (Type II focuses closer and takes 39mm filters). New "Voigtländer (M-Mount)" group.
 **5.1 done 2026-10-22 (112 L-Mount lenses copied into leica/):** every full-frame L lens on Panasonic's page except Leica's own SL lenses - LUMIX S 22, Sigma 38, Laowa 23, Viltrox 6, Samyang 2, TTArtisan 6, 7Artisans 11, Meike 2, SG-image 2 - copied verbatim with Panasonic's dropdown grouping ("Panasonic LUMIX S Primes/Zooms (L-Mount)", maker groups after Leica's own). shared-mount.test.js gains leica-panasonic and leica-sigma rows (both pass). 7 image gaps carried over (lumix-s-20mm-f2-5 + 6 Laowa).
 **4.3 done 2026-10-22 (TTArtisan 5 + 7Artisans 7 MFT lenses, panasonic/ + olympus/):** TTArtisan 35 f/1.4, 50 f/1.2, 40 macro, 7.5 fisheye, Tilt 35; 7Artisans 25 f/1.8, 60 macro II, 4mm, 18 f/6.3 II, 50 Tilt, 10 f/3.5, 6 f/2 fisheye. Every B&H MFT listing used gives the same size/weight as the Sony (6mm: Fujifilm) entry, so those entries were cloned with mount mft and 2x equivalents; USD = store M43 variant price (equal to the E prices).
@@ -70,7 +71,8 @@ Makers' store catalogues (Shopify `products.json`, venuslens Woo Store API) and 
 | 4.3a SG-image + Samyang MFT | 21 | 20 | 1 | 26e2815 |
 | 4.3b TTArtisan + 7Artisans + Meike MFT | ~38 | 12 | ~26 | 47bfd73 |
 | 5.1 Leica L-Mount mirror | 112 | 112 | 0 | 08e9c67 |
-| 5.2 Voigtländer VM | 35 | 29 | 6 | (this commit) |
+| 5.2 Voigtländer VM | 35 | 29 | 6 | b3b948d |
+| 5.3 Zeiss ZM | 9 | 9 | 0 | (this commit) |
 
 ## Skipped
 ### Laowa L (3.2)

diff --git a/openspec/changes/add-panasonic-leica-missing-thirdparty-lenses/tasks.md b/openspec/changes/add-panasonic-leica-missing-thirdparty-lenses/tasks.md
@@ -26,7 +26,7 @@
 
 - [x] 5.1 L-Mount: mirror Panasonic's full-frame L lenses; shared-mount test rows
 - [x] 5.2 M-Mount: Voigtländer VM
-- [ ] 5.3 M-Mount: Zeiss ZM
+- [x] 5.3 M-Mount: Zeiss ZM
 - [ ] 5.4 M-Mount: TTArtisan / 7Artisans / Thypoch / Laowa
 
 ## 6. Verify
